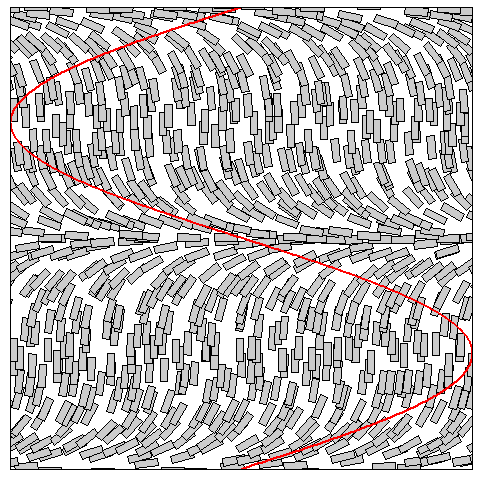
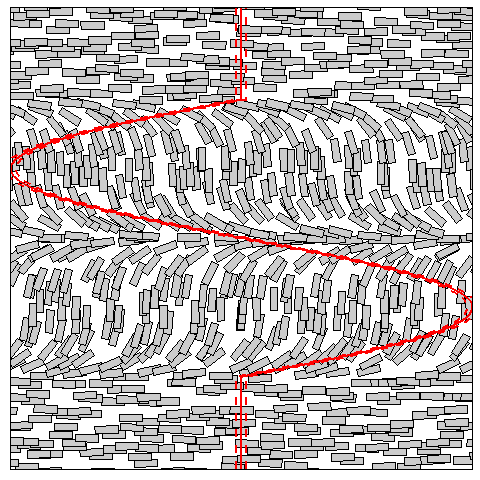
Plot angle noise limits as dashed lines around the main line if show_function = TRUE

diff --git a/README.md b/README.md
@@ -86,13 +86,14 @@ lcd(0, 360,
 
 Non-linear changes in angle can also be specified by the
 `angle_function` argument. Here I create a sinusoidally varying angle
+between 0.2 and 0.8 (the vertical scale of the plot is always 0 to 1).
 
 ``` r
-x <- seq(0,1,l=1000)
+x <- seq(0.2,0.8,l=1000)
 y <- sin(seq(0,2*pi,l=1000))*90
 af <- approxfun(x,y, rule=2)
 
-lcd(angle_function = af, seed=1, show_function = TRUE)
+lcd(angle_function = af, seed=1, show_function = TRUE, angle_n=2)
 ```
 
 ![](man/figures/README-unnamed-chunk-7-1.png)<!-- -->
